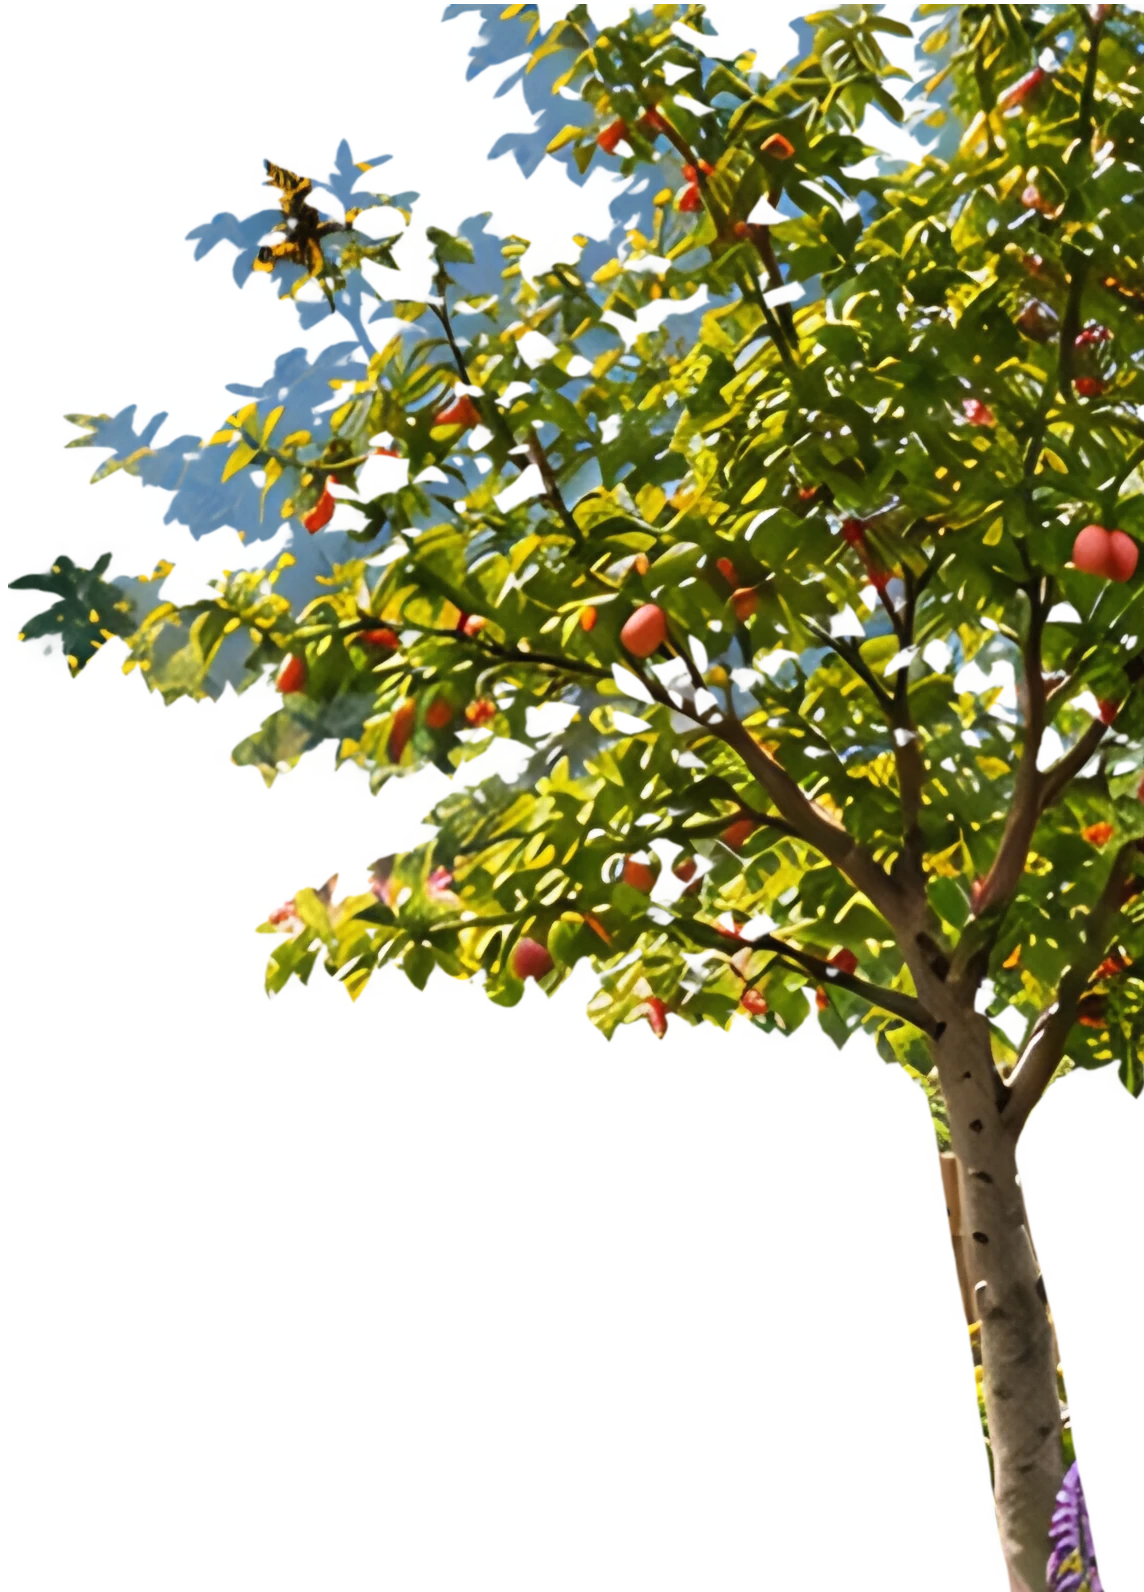
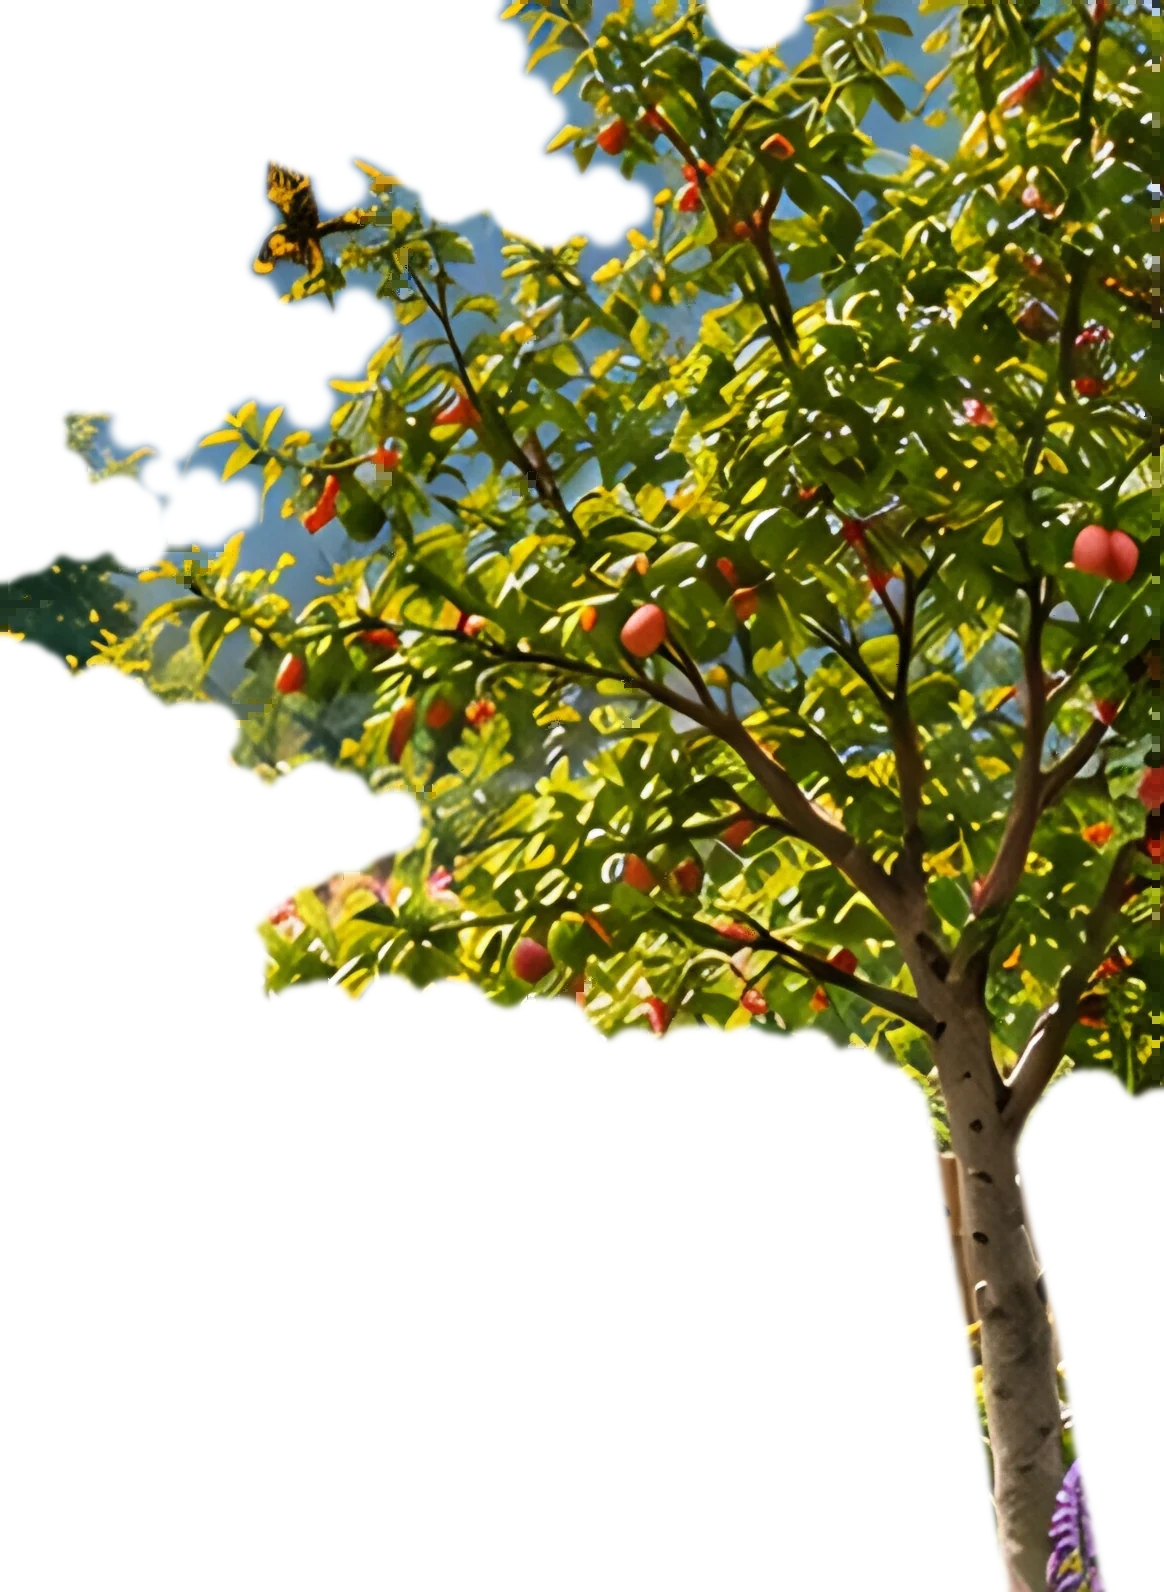
Haus-Tour: Baum und Bienenhotel sauber hervorheben
Bienenhotel als gezeichneter Umriss mit erweitertem Rahmen (Seitenwand und ganzer Pfosten). Baummaske zu einer geschlossenen Krone geglättet, offener Himmel und das davorstehende Bienenhotel ausgespart, Rahmen bis zum Bildrand.

diff --git a/scripts/refine-house-masks.py b/scripts/refine-house-masks.py
@@ -52,6 +52,63 @@ CLIP = {
     "bedroom-heating": [(0.0, 0.0), (0.835, 0.0), (0.835, 0.33), (1.0, 0.33), (1.0, 1.0), (0.0, 1.0)],
 }
 
+# Foliage masks come out as lace: every gap between leaves is a hole, and the
+# spotlight flickers across the canopy. Close them into one soft silhouette.
+# Values are the closing radius and the edge feather, in master pixels.
+SMOOTH = {
+    "garden-plants": (28, 3.0),
+}
+
+# The tree box runs to the picture edge, the generated mask stopped 5 px short.
+# Carry the mask's last column across that strip (source px).
+EXTEND_RIGHT = {
+    "garden-plants": 5,
+}
+
+# Objects standing in front of another one are cut out of its mask, so the
+# spotlight on the tree does not light up the insect hotel before it.
+OCCLUDERS = {
+    "garden-plants": ["garden-structures"],
+}
+
+
+def remove_open_sky(alpha: np.ndarray, crop_bgr: np.ndarray) -> np.ndarray:
+    """Drop large blue areas that closing folded into a canopy; small gaps between leaves stay."""
+    b, g, r = [crop_bgr[..., i].astype(np.int16) for i in range(3)]
+    sky = ((b > r + 25) & (b > g + 5)).astype(np.uint8)
+    sky = cv2.morphologyEx(sky, cv2.MORPH_OPEN, cv2.getStructuringElement(cv2.MORPH_ELLIPSE, (41, 41)))
+    sky = cv2.GaussianBlur(sky.astype(np.float32), (0, 0), 4.0)
+    return (alpha.astype(np.float32) * (1 - sky)).round().clip(0, 255).astype(np.uint8)
+
+
+def remove_occluders(alpha: np.ndarray, box, occluders, layout) -> np.ndarray:
+    x, y = box[0] * SCALE, box[1] * SCALE
+    result = alpha.astype(np.float32)
+    for other_id in occluders:
+        other = next(o for o in layout["objects"] if o["id"] == other_id)
+        other_alpha = np.asarray(Image.open(os.path.join(OBJECTS, f"{other_id}.webp")).getchannel("A"), np.float32)
+        ox, oy = other["box"][0] * SCALE - x, other["box"][1] * SCALE - y
+        # Paste the occluder's alpha into this object's frame, clipped to the overlap.
+        h, w = result.shape
+        oh, ow = other_alpha.shape
+        x0, y0, x1, y1 = max(ox, 0), max(oy, 0), min(ox + ow, w), min(oy + oh, h)
+        if x0 < x1 and y0 < y1:
+            patch = other_alpha[y0 - oy:y1 - oy, x0 - ox:x1 - ox]
+            result[y0:y1, x0:x1] *= 1 - patch / 255
+    return result.round().clip(0, 255).astype(np.uint8)
+
+
+def smooth(alpha: np.ndarray, radius: int, feather: float) -> np.ndarray:
+    binary = (alpha > 96).astype(np.uint8)
+    kernel = cv2.getStructuringElement(cv2.MORPH_ELLIPSE, (2 * radius + 1, 2 * radius + 1))
+    closed = cv2.morphologyEx(binary, cv2.MORPH_CLOSE, kernel)
+    # Fill what closing left enclosed, then keep only the largest shape.
+    contours, _ = cv2.findContours(closed, cv2.RETR_EXTERNAL, cv2.CHAIN_APPROX_NONE)
+    filled = np.zeros_like(closed)
+    cv2.drawContours(filled, [max(contours, key=cv2.contourArea)], -1, 1, thickness=cv2.FILLED)
+    opened = cv2.morphologyEx(filled, cv2.MORPH_OPEN, cv2.getStructuringElement(cv2.MORPH_ELLIPSE, (9, 9)))
+    return (cv2.GaussianBlur(opened.astype(np.float32), (0, 0), feather) * 255).round().clip(0, 255).astype(np.uint8)
+
 
 def refine(master: np.ndarray, box, alpha: np.ndarray) -> tuple[np.ndarray, float]:
     x, y, w, h = [v * SCALE for v in box]
@@ -99,6 +156,19 @@ def main():
             cv2.fillPoly(outline, [points], 255)
             outline = cv2.GaussianBlur(outline, (0, 0), 1.2)
             alpha = (alpha.astype(np.float32) * outline / 255).round().astype(np.uint8)
+        if item["id"] in SMOOTH:
+            x, y, w, h = [v * SCALE for v in item["box"]]
+            strip = EXTEND_RIGHT.get(item["id"], 0) * SCALE
+            if strip:
+                alpha = alpha.copy()
+                alpha[:, -strip:] = alpha[:, -strip - 1:-strip]
+            alpha = smooth(alpha, *SMOOTH[item["id"]])
+            alpha = remove_open_sky(alpha, master[y:y + h, x:x + w])
+            alpha = remove_occluders(alpha, item["box"], OCCLUDERS.get(item["id"], []), layout)
+            cutout.putalpha(Image.fromarray(alpha))
+            cutout.save(path, "WEBP", quality=88, alpha_quality=100)
+            print(f"{item['id']}: smoothed into one silhouette")
+            continue
         if item["id"] not in GRABCUT:
             if item["id"] in CLIP:
                 cutout.putalpha(Image.fromarray(alpha))

diff --git a/assets-source/house/full-house/README.md b/assets-source/house/full-house/README.md
@@ -51,9 +51,14 @@ contour drawn in):
 - **Alignment**, every object: the build script slides each mask up to 2 source
   px so its edge meets the picture's edges; the registration windows were
   measured by hand in whole pixels.
-- **Drawn outline** (`outlines` in the build script): the raised bed. Its mask
-  covered path and plants and stopped short of the bed's right half, so the
-  layout box was widened and the alpha is a polygon instead.
+- **Drawn outline** (`outlines` in the build script): the raised bed and the
+  insect hotel. Their masks covered path and plants or sat to one side and
+  missed half the object, so the layout boxes were widened and the alpha is a
+  polygon instead.
+- **Smoothed silhouette** (`SMOOTH`, `scripts/refine-house-masks.py`): the fruit
+  tree. Its mask was lace with a hole between every leaf; it is closed into one
+  soft canopy, open sky is removed by colour, the insect hotel in front is cut
+  out (`OCCLUDERS`) and the mask runs to the picture edge (`EXTEND_RIGHT`).
 - **Hand clip** (`CLIP` in `scripts/refine-house-masks.py`): the bed, whose mask
   included wall right of the headboard.
 - **GrabCut** (`GRABCUT`, same script): the kitchen shelves and the driveway.
